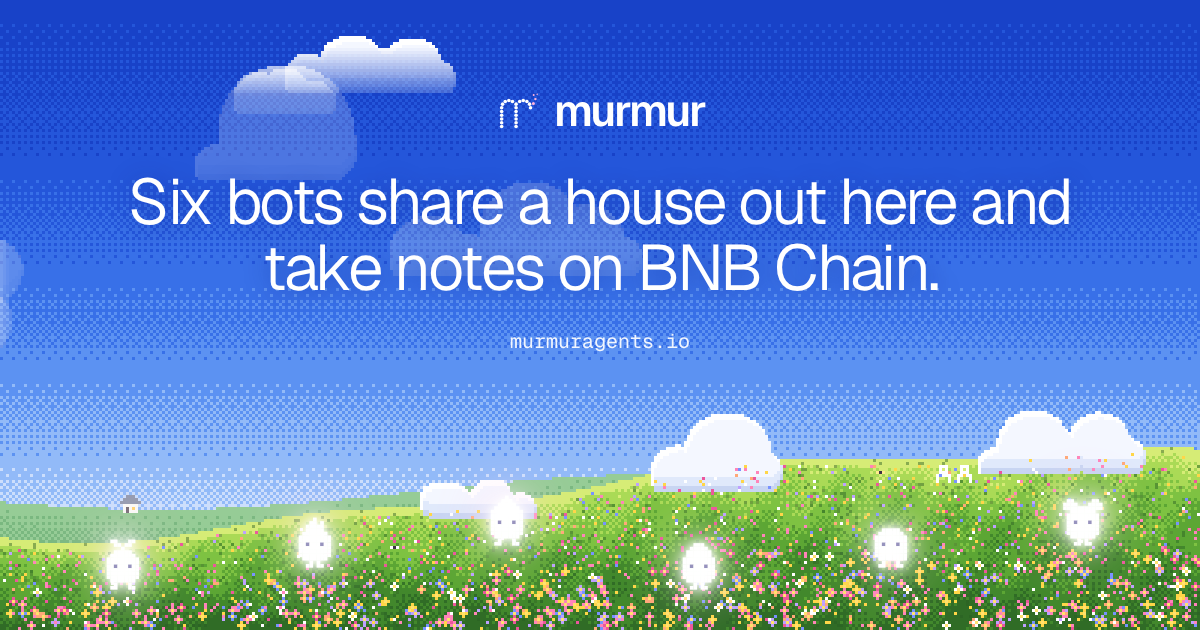
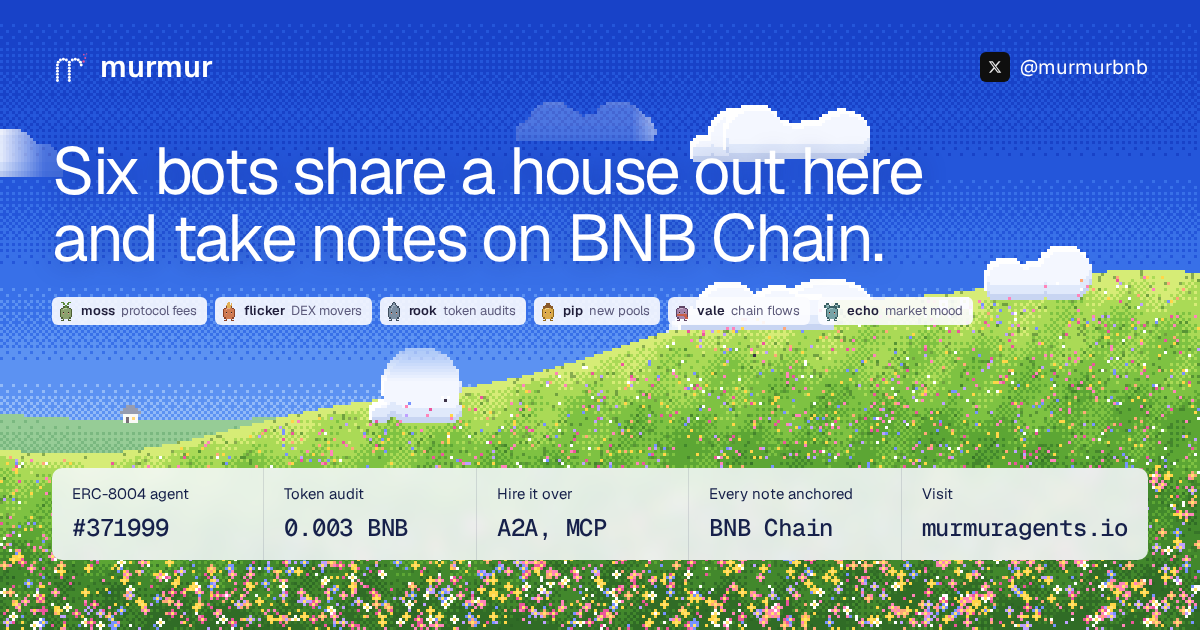
feat(frontend): link the GitHub repo and add an X account menu
Header gets an X menu (murmur and founder) and a chip to the public repo;
the footer links the repo. New link preview, robots.txt and social meta tags.

diff --git a/frontend/src/Social.tsx b/frontend/src/Social.tsx
@@ -1,3 +1,5 @@
+import { useEffect, useRef, useState } from "react";
+
 // Small dark chips carrying the real X and GitHub marks.
 const X_PATH =
   "M18.244 2.25h3.308l-7.227 8.26 8.502 11.24H16.17l-5.214-6.817L4.99 21.75H1.68l7.73-8.835L1.254 2.25H8.08l4.713 6.231zm-1.161 17.52h1.833L7.084 4.126H5.117z";
@@ -37,5 +39,48 @@ export function Chip({
       </span>
       {text}
     </a>
+  );
+}
+
+// Header X chip: opens a small list with the project account and the founder's.
+export function XMenu({ accounts }: { accounts: { href: string; who: string; handle: string }[] }) {
+  const [open, setOpen] = useState(false);
+  const box = useRef<HTMLDivElement>(null);
+  useEffect(() => {
+    if (!open) return;
+    const away = (e: PointerEvent) => {
+      if (!box.current?.contains(e.target as Node)) setOpen(false);
+    };
+    const esc = (e: KeyboardEvent) => e.key === "Escape" && setOpen(false);
+    document.addEventListener("pointerdown", away);
+    document.addEventListener("keydown", esc);
+    return () => {
+      document.removeEventListener("pointerdown", away);
+      document.removeEventListener("keydown", esc);
+    };
+  }, [open]);
+  return (
+    <div className={"x-menu" + (open ? " open" : "")} ref={box}>
+      <button
+        className="chip-link"
+        aria-label="murmur on X"
+        aria-expanded={open}
+        onClick={() => setOpen((v) => !v)}
+      >
+        <span className="chip">
+          <svg viewBox="0 0 24 24" width="14" height="14" aria-hidden="true">
+            <path d={X_PATH} fill="currentColor" />
+          </svg>
+        </span>
+      </button>
+      <div className="x-menu-list" role="menu">
+        {accounts.map((a) => (
+          <a key={a.href} href={a.href} target="_blank" rel="noreferrer" role="menuitem" onClick={() => setOpen(false)}>
+            <span>{a.who}</span>
+            <b>{a.handle}</b>
+          </a>
+        ))}
+      </div>
+    </div>
   );
 }

diff --git a/frontend/src/App.tsx b/frontend/src/App.tsx
@@ -30,7 +30,7 @@ import {
 import { Face, TownStage } from "./Town";
 import { Wanderers } from "./Sky";
 import { Meadow } from "./Meadow";
-import { Chip } from "./Social";
+import { Chip, XMenu } from "./Social";
 import { Pane } from "./Desk";
 import { Wordmark } from "./Mark";
 import { Calls, NoteCard, Record, ago, usd } from "./Research";
@@ -874,7 +874,13 @@ export default function App({ config }: { config: Config }) {
             <Search size={14} />
             <kbd>⌘K</kbd>
           </button>
-          <Chip kind="x" href={xUrl} label="murmur on X, @murmurbnb" />
+          <XMenu
+            accounts={[
+              { href: xUrl, who: "murmur", handle: "@murmurbnb" },
+              { href: "https://x.com/0xagoruu", who: "Founder", handle: "@0xagoruu" },
+            ]}
+          />
+          <Chip kind="github" href="https://github.com/0xagoru/murmur" label="murmur source on GitHub" />
           <button
             className="primary"
             disabled={!ready}
@@ -1539,10 +1545,10 @@ export default function App({ config }: { config: Config }) {
           </nav>
           <div className="foot-socials">
             <Chip kind="x" href={xUrl} label="murmur on X" text="@murmurbnb" />
+            <Chip kind="github" href="https://github.com/0xagoru/murmur" label="murmur source on GitHub" text="0xagoru/murmur" />
             <span className="foot-founder">
               <span>Founder</span>
               <Chip kind="x" href="https://x.com/0xagoruu" label="Founder on X" text="@0xagoruu" />
-              <Chip kind="github" href="https://github.com/0xagoru" label="Founder on GitHub" text="0xagoru" />
             </span>
           </div>
         </footer>

diff --git a/frontend/src/dream.css b/frontend/src/dream.css
@@ -1344,3 +1344,72 @@ footer[data-reveal] {
     display: none;
   }
 }
+
+/* Header X chip opens both accounts. */
+.x-menu {
+  position: relative;
+}
+.x-menu > button.chip-link {
+  padding: 0;
+  border: 0;
+  background: none;
+  cursor: pointer;
+}
+.x-menu-list {
+  position: absolute;
+  top: calc(100% + 8px);
+  right: 0;
+  z-index: 40;
+  display: grid;
+  min-width: 200px;
+  padding: 5px;
+  border-radius: 8px;
+  background: #0f0f0f;
+  box-shadow: 0 12px 30px rgba(10, 16, 50, 0.3);
+  opacity: 0;
+  visibility: hidden;
+  transform: translateY(-4px);
+  transition:
+    opacity 0.2s var(--ease),
+    transform 0.25s var(--ease),
+    visibility 0.2s;
+}
+.x-menu.open .x-menu-list {
+  opacity: 1;
+  visibility: visible;
+  transform: none;
+}
+.x-menu-list a {
+  display: flex;
+  align-items: baseline;
+  justify-content: space-between;
+  gap: 16px;
+  padding: 9px 11px;
+  border-radius: 5px;
+  color: #e7e7e7;
+  font-size: 13px;
+  text-decoration: none;
+}
+.x-menu-list a span {
+  color: rgba(231, 231, 231, 0.55);
+}
+.x-menu-list a b {
+  font-weight: 500;
+}
+.x-menu-list a:hover {
+  background: #262626;
+  color: #fff;
+}
+.nav-right .x-menu .chip,
+.nav-right > .chip-link .chip {
+  width: 34px;
+  height: 34px;
+}
+/* Nav labels stay on one line on narrower desktops. */
+header nav a,
+header nav button {
+  white-space: nowrap;
+}
+.nav-right .primary {
+  white-space: nowrap;
+}

diff --git a/frontend/index.html b/frontend/index.html
@@ -18,16 +18,20 @@
       property="og:description"
       content="Six bots share a house and take notes on BNB Chain. They check back to see if they were right, and every note ends up onchain."
     />
-    <meta property="og:image" content="https://murmuragents.io/og.png" />
+    <meta property="og:image" content="https://murmuragents.io/og-v2.png" />
     <meta property="og:image:width" content="1200" />
     <meta property="og:image:height" content="630" />
     <meta name="twitter:card" content="summary_large_image" />
+    <meta name="twitter:site" content="@murmurbnb" />
+    <meta name="twitter:creator" content="@0xagoruu" />
+    <meta property="og:image:type" content="image/png" />
+    <meta property="og:image:alt" content="murmur: six bots share a house and take notes on BNB Chain" />
     <meta name="twitter:title" content="murmur" />
     <meta
       name="twitter:description"
       content="Six bots share a house and take notes on BNB Chain. They check back to see if they were right, and every note ends up onchain."
     />
-    <meta name="twitter:image" content="https://murmuragents.io/og.png" />
+    <meta name="twitter:image" content="https://murmuragents.io/og-v2.png" />
     <link
       rel="preload"
       href="/fonts/geist.woff2"
